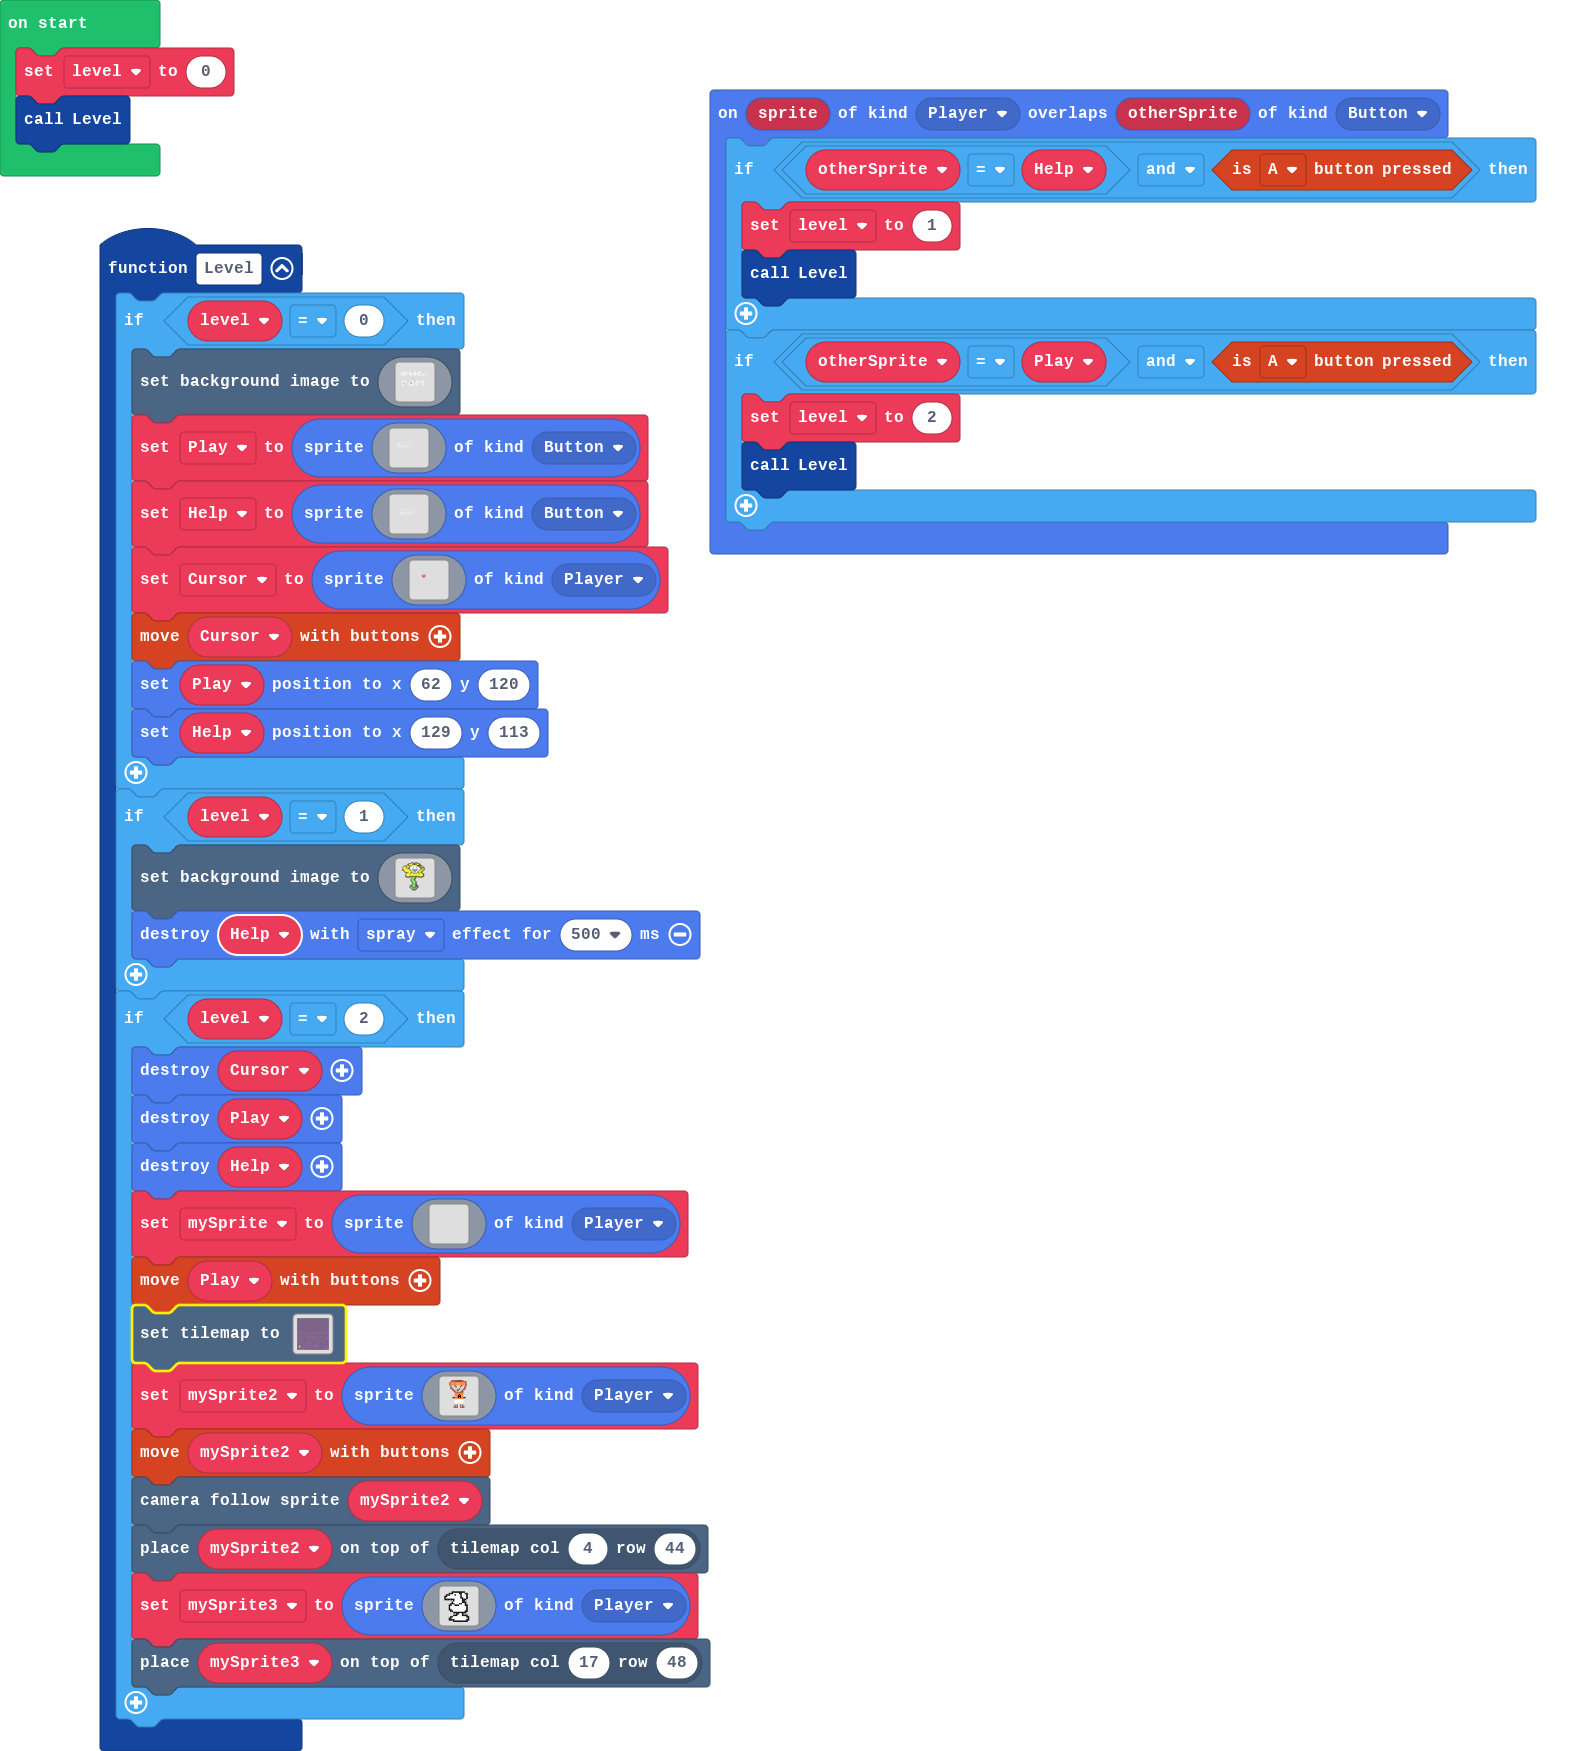
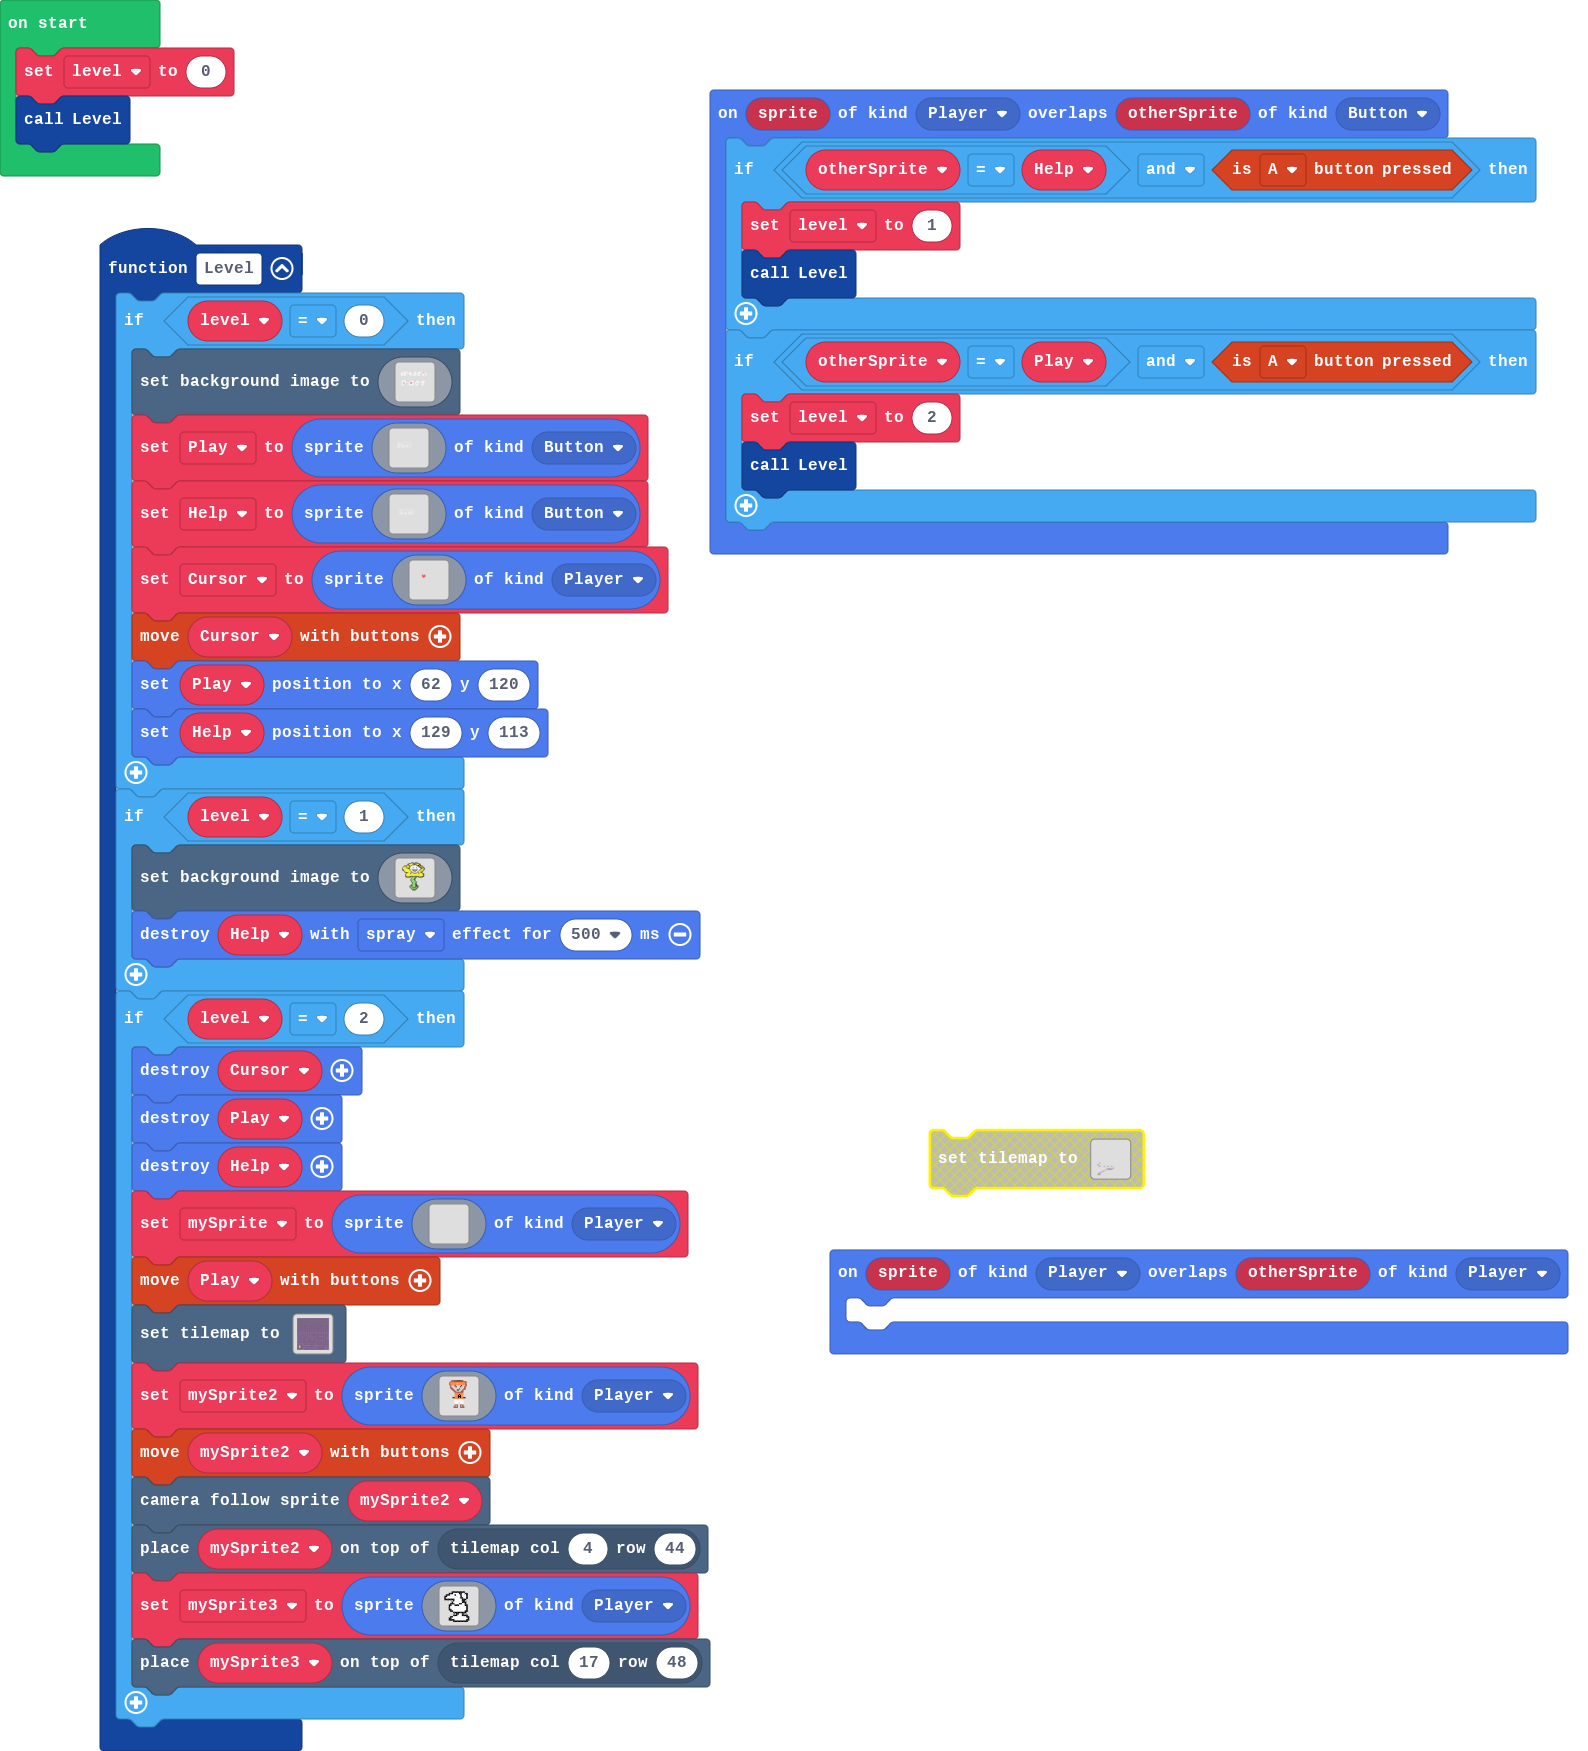
Update main.blocks, tilemap.g.jres, tilemap.g.ts, main.ts

Changed region(s): [[0.5246, 0.6168, 0.9874, 0.771]]

diff --git a/tilemap.g.ts b/tilemap.g.ts
@@ -14,7 +14,7 @@ namespace myTiles {
     helpers._registerFactory("tilemap", function(name: string) {
         switch(helpers.stringTrim(name)) {
             case "level1":
[2 lines of base64/hex data omitted]
 ..................................................
 ..................................................
 ..................................................
@@ -43,17 +43,17 @@ namespace myTiles {
 .................................................2
 222222.....22222....2..2...........2.............2
 ....................2..2...........2.............2
-........2...........2..2...........2222222......22
-........2...........2..2..222.................2222
+........2...........2..2...........2222222.......2
+........2...........2..2.........................2
 22......2......222222..2222222................2222
 .2......2.........................................
 .2......2......................2..................
 .2......2......................2..............2222
 .2..22..2....2222.....22222....2..................
-.2......2......................2.22222222.........
+.2......2......................2..2222222.........
 .2......2...............................2.........
 .2......2...................2...........2.........
-.............22222..22......2...........2.........
+.............222.....2......2...........2.........
 ......................2.....2.....................
 22222222222......2.2........2.....................
 ..........2......2.2........2222..................
@@ -63,9 +63,47 @@ namespace myTiles {
 ...................2........2................2....
 ..........22222....2........2................2....
 ..........2........2...222222................2....
-..........2........2......................2222....
+..........2........2......................22222222
 22222222222........2........................2.....
-`, [myTiles.transparency16,sprites.dungeon.darkGroundCenter,sprites.dungeon.purpleOuterNorth1,sprites.dungeon.purpleOuterEast0,sprites.dungeon.purpleOuterNorthEast,sprites.dungeon.purpleOuterSouthWest,sprites.dungeon.purpleOuterSouth1,myTiles.tile4,sprites.dungeon.purpleOuterSouth0,sprites.dungeon.purpleOuterNorth0,sprites.dungeon.purpleOuterWest1,sprites.dungeon.purpleOuterWest0,sprites.dungeon.purpleOuterSouthEast,sprites.dungeon.purpleOuterNorthWest], TileScale.Sixteen);
+`, [myTiles.transparency16,sprites.dungeon.darkGroundCenter,sprites.dungeon.purpleOuterNorth1,sprites.dungeon.purpleOuterEast0,sprites.dungeon.purpleOuterNorthEast,sprites.dungeon.purpleOuterSouthWest,sprites.dungeon.purpleOuterSouth1,myTiles.tile4,sprites.dungeon.purpleOuterSouth0,sprites.dungeon.purpleOuterNorth0,sprites.dungeon.purpleOuterWest1,sprites.dungeon.purpleOuterWest0,sprites.dungeon.purpleOuterSouthEast,sprites.dungeon.purpleOuterNorthWest,sprites.dungeon.doorClosedEast,sprites.dungeon.darkGroundSouthWest1,sprites.dungeon.doorOpenEast], TileScale.Sixteen);
+            case "level2":
+            case "level2":return tiles.createTilemap(hex`2300230000000000000000000000000000000000000000000000000000000000000000000000000000000000000000000000000000000000000000000000000000000000000000000000000000000000000000000000000000000000000000000000000000000000000000000000000000000000000000000000000000000000000000000000000000000000000000000000000000000000000000000000000000000000000000000000000000000000000000000000000000000000000000000000000000000000000000000000000000000000000000000000000000000000000000000000000000000000000000000000000000000000000000000000000000000000000000000000000000000000000000000000000000000000000000000000000000000000000000000000000000000000000000000000000000000000000000000000000000000000000000000000000000000000000000000000000000000000000000000000000000000000000000000000000000000000000000000000000000000000000000000000000000000000000000000000000000000000000000000000000000000000000000000000000000000000000000000000000000000000000000000000000000000000000000000000000000000000000000000000000000000000000000000000000000000000000000000000000000000000000000000000000000000000000000000000000000000000000000000000000000000000000000000000000000000000000000000000000000000000000000000000000000000000000000000000000000000000000000000000000000000000000000000000000000000000000000000000000000000000000000000000000000000000000000000000000000000000000000000000000000000000000000000000000000000000000000000000000000000000000000000000000000000000000000000000000000000000000000000000000000000000000000000000000000000000000000000100000000000000000000000000000000000000000000000000000000000000000000000000000000000000000000000000000000000000000000000000000000000000010000000000000000000000000000000000000000000000000000000000000000000000010000000000000000000000000000000000000000000000000000000000000000000000010000000001000000010000000100000000000000000000000000000000000000000000000000000000000000000000000000000000000000000000000000000000000000000000000000000000000000000000000100000000000000000000000000000000000000000000000000000001010101010100000000000000000000000000000000000000000000000000000001000000000000000000000000000000000000000000000000000000000000000001000000000000000000000000000000000000000000000000000000000000000001000000000000000000000000000000000000000000000000000000000000000001000000000000000000000000000000000000000000000000000000000000000000010100000000000000000000000000000000000000000000000000000000000000000101010000000000000000000000000000000000000000000000000000000000`, img`
+...................................
+...................................
+...................................
+...................................
+...................................
+...................................
+...................................
+...................................
+...................................
+...................................
+...................................
+...................................
+...................................
+...................................
+...................................
+...................................
+...................................
+...................................
+...................................
+...................................
+...................................
+...................................
+...................................
+...................................
+...................................
+...................................
+...................................
+...................................
+...................................
+...................................
+...................................
+...................................
+...................................
+...................................
+...................................
+`, [myTiles.transparency16,sprites.dungeon.floorDark2], TileScale.Sixteen);
         }
         return null;
     })

diff --git a/main.ts b/main.ts
@@ -709,6 +709,9 @@ function Level () {
         tiles.placeOnTile(mySprite3, tiles.getTileLocation(17, 48))
     }
 }
+sprites.onOverlap(SpriteKind.Player, SpriteKind.Player, function (sprite, otherSprite) {
+	
+})
 sprites.onOverlap(SpriteKind.Player, SpriteKind.Button, function (sprite, otherSprite) {
     if (otherSprite == Help && controller.A.isPressed()) {
         level = 1
